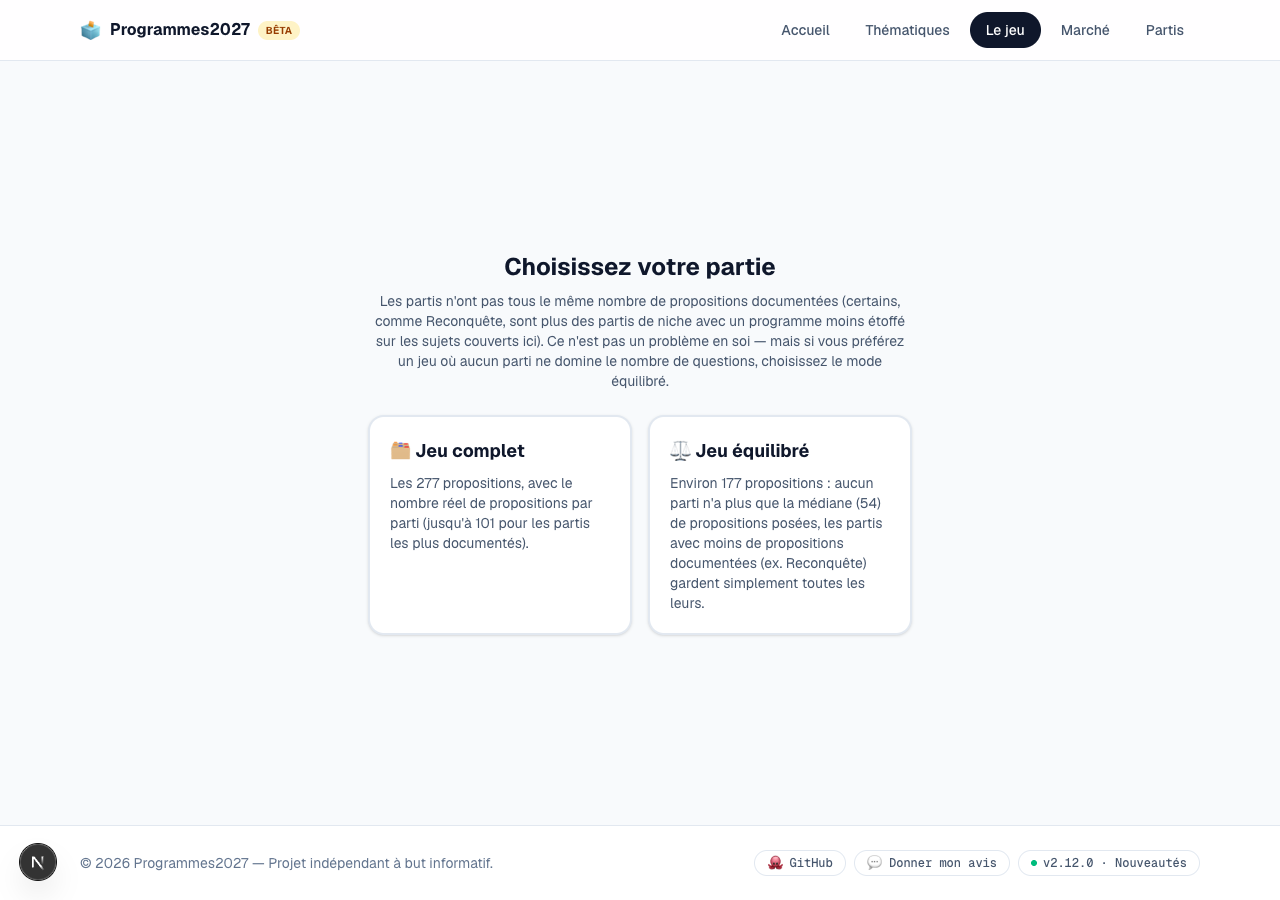
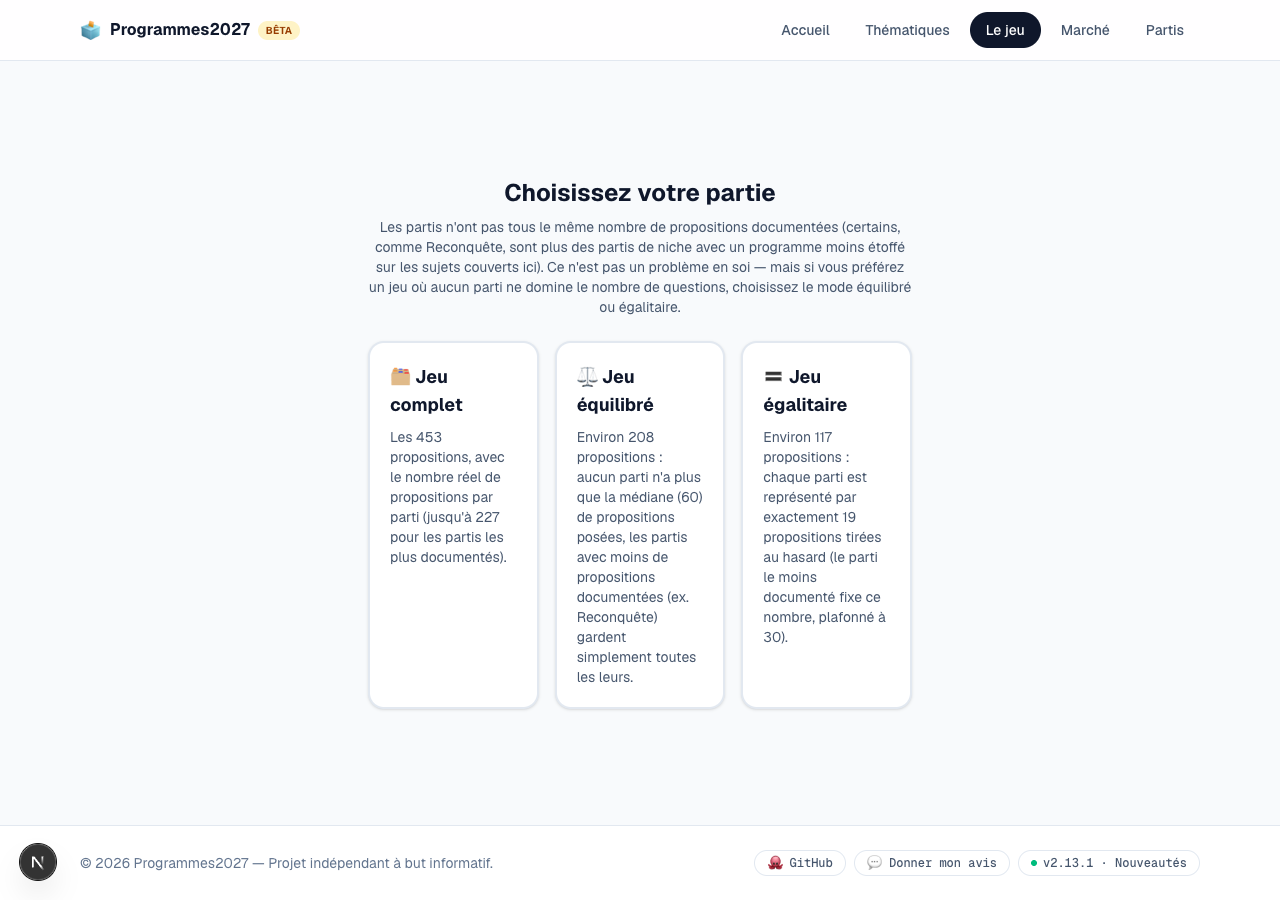
Add egalitarian game mode with equal proposition counts per party

Changed region(s): [[0.2812, 0.1867, 0.7188, 0.7778]]

diff --git a/src/components/SwipeGame.tsx b/src/components/SwipeGame.tsx
@@ -12,6 +12,7 @@ import {
   countPropositionsByParty,
   medianPropositionsPerParty,
   selectCappedPropositions,
+  selectEgalitarianPropositions,
 } from "@/lib/deckOrdering";
 import {
   ANSWERS_STORAGE_KEY,
@@ -32,14 +33,21 @@ import {
  *   "make up" for their smaller footprint, that's expected — while
  *   well-documented parties (LR, LFI...) get trimmed down so no party
  *   dominates the questions asked.
+ * - "egalitaire": every party ends up backing the exact same number of
+ *   propositions, using whichever party has the fewest as the shared
+ *   target (capped at `EGALITAIRE_MAX_PER_PARTY`), picked at random.
  */
-export type DeckMode = "complet" | "equilibre";
+export type DeckMode = "complet" | "equilibre" | "egalitaire";
+
+const EGALITAIRE_MAX_PER_PARTY = 30;
 
 function createNewDeckIds(mode: DeckMode): string[] {
   const pool =
     mode === "equilibre"
       ? selectCappedPropositions(propositions, medianPropositionsPerParty(propositions))
-      : propositions;
+      : mode === "egalitaire"
+        ? selectEgalitarianPropositions(propositions, EGALITAIRE_MAX_PER_PARTY)
+        : propositions;
   return createBalancedDeckOrder(pool).map((p) => p.id);
 }
 
@@ -218,6 +226,14 @@ function DeckModeSelector({ onSelect }: { onSelect: (mode: DeckMode) => void }) 
     () => selectCappedPropositions(propositions, cap).length,
     [cap]
   );
+  const egalitaireTarget = useMemo(() => {
+    const counts = [...countPropositionsByParty(propositions).values()];
+    return Math.min(Math.min(...counts), EGALITAIRE_MAX_PER_PARTY);
+  }, []);
+  const egalitaireCount = useMemo(
+    () => selectEgalitarianPropositions(propositions, EGALITAIRE_MAX_PER_PARTY).length,
+    []
+  );
 
   return (
     <div className="mx-auto flex w-full max-w-xl flex-1 flex-col items-center justify-center gap-6 px-4 py-10 text-center">
@@ -229,11 +245,11 @@ function DeckModeSelector({ onSelect }: { onSelect: (mode: DeckMode) => void }) 
           niche avec un programme moins étoffé sur les sujets couverts
           ici). Ce n&apos;est pas un problème en soi — mais si vous
           préférez un jeu où aucun parti ne domine le nombre de questions,
-          choisissez le mode équilibré.
+          choisissez le mode équilibré ou égalitaire.
         </p>
       </div>
 
-      <div className="grid w-full gap-4 sm:grid-cols-2">
+      <div className="grid w-full gap-4 sm:grid-cols-3">
         <button
           onClick={() => onSelect("complet")}
           className="flex flex-col gap-2 rounded-2xl border-2 border-slate-200 bg-white p-5 text-left shadow-sm transition hover:border-slate-400"
@@ -255,6 +271,18 @@ function DeckModeSelector({ onSelect }: { onSelect: (mode: DeckMode) => void }) 
             plus que la médiane ({cap}) de propositions posées, les partis
             avec moins de propositions documentées (ex. Reconquête) gardent
             simplement toutes les leurs.
+          </span>
+        </button>
+        <button
+          onClick={() => onSelect("egalitaire")}
+          className="flex flex-col gap-2 rounded-2xl border-2 border-slate-200 bg-white p-5 text-left shadow-sm transition hover:border-slate-400"
+        >
+          <span className="text-lg font-bold text-slate-900">🟰 Jeu égalitaire</span>
+          <span className="text-sm text-slate-600">
+            Environ {egalitaireCount} propositions : chaque parti est
+            représenté par exactement {egalitaireTarget} propositions
+            tirées au hasard (le parti le moins documenté fixe ce nombre,
+            plafonné à {EGALITAIRE_MAX_PER_PARTY}).
           </span>
         </button>
       </div>

diff --git a/src/lib/deckOrdering.ts b/src/lib/deckOrdering.ts
@@ -134,6 +134,57 @@ export function medianPropositionsPerParty(props: Proposition[]): number {
  * multiple parties' quotas. Stops once no remaining proposition can help
  * any party that hasn't already reached its cap.
  */
+/**
+ * Selects a pool where every party ends up backing the exact same
+ * number of propositions in the quiz — the "égalitaire" mode. The
+ * target count is the smallest number of propositions any tracked party
+ * supports (a niche party can't be given more than it actually has),
+ * capped at `maxPerParty` so the quiz never gets unreasonably long even
+ * if every party happened to have a huge, similar footprint.
+ *
+ * For each party, `target` of its supporting propositions are picked at
+ * random (without replacement within that party's own list). A
+ * proposition supported by several parties at once can satisfy more
+ * than one party's quota simultaneously — it's only added to the
+ * returned pool once, but still counts towards the quota of every party
+ * it supports, exactly like it would if shown in the finished quiz.
+ */
+export function selectEgalitarianPropositions(
+  props: Proposition[],
+  maxPerParty = 30
+): Proposition[] {
+  const counts = countPropositionsByParty(props);
+  if (counts.size === 0) return [];
+  const minCount = Math.min(...counts.values());
+  const target = Math.min(minCount, maxPerParty);
+
+  const byParty = new Map<PartyId, Proposition[]>();
+  for (const p of props) {
+    for (const partyId of p.supportingParties) {
+      if (!byParty.has(partyId)) byParty.set(partyId, []);
+      byParty.get(partyId)!.push(p);
+    }
+  }
+
+  const selectedIds = new Set<string>();
+  const selected: Proposition[] = [];
+
+  for (const list of byParty.values()) {
+    const shuffled = shuffle(list);
+    let taken = 0;
+    for (const p of shuffled) {
+      if (taken >= target) break;
+      if (!selectedIds.has(p.id)) {
+        selectedIds.add(p.id);
+        selected.push(p);
+      }
+      taken++;
+    }
+  }
+
+  return selected;
+}
+
 export function selectCappedPropositions(
   props: Proposition[],
   capPerParty: number

diff --git a/README.md b/README.md
@@ -27,11 +27,13 @@ déjà ailleurs dans le monde.
 
 Avant de commencer, choisissez entre le **jeu complet** (toutes les
 propositions, chaque parti avec son nombre réel de propositions
-documentées) et un **jeu équilibré** plus court, où aucun parti ne
+documentées), le **jeu équilibré** plus court, où aucun parti ne
 fournit plus que la médiane du nombre de propositions posées — les
 partis moins documentés (par exemple Reconquête, qui reste une niche
 avec un programme plus restreint sur les sujets couverts ici) gardent
-simplement toutes les leurs.
+simplement toutes les leurs — et le **jeu égalitaire**, où chaque parti
+est représenté par exactement le même nombre de propositions (fixé par
+le parti le moins documenté, plafonné à 30), tirées au hasard.
 
 Swipez (ou cliquez) chaque proposition « pour » ou « contre », sans
 savoir quel parti la porte. L'ordre est mélangé à chaque partie, mais
